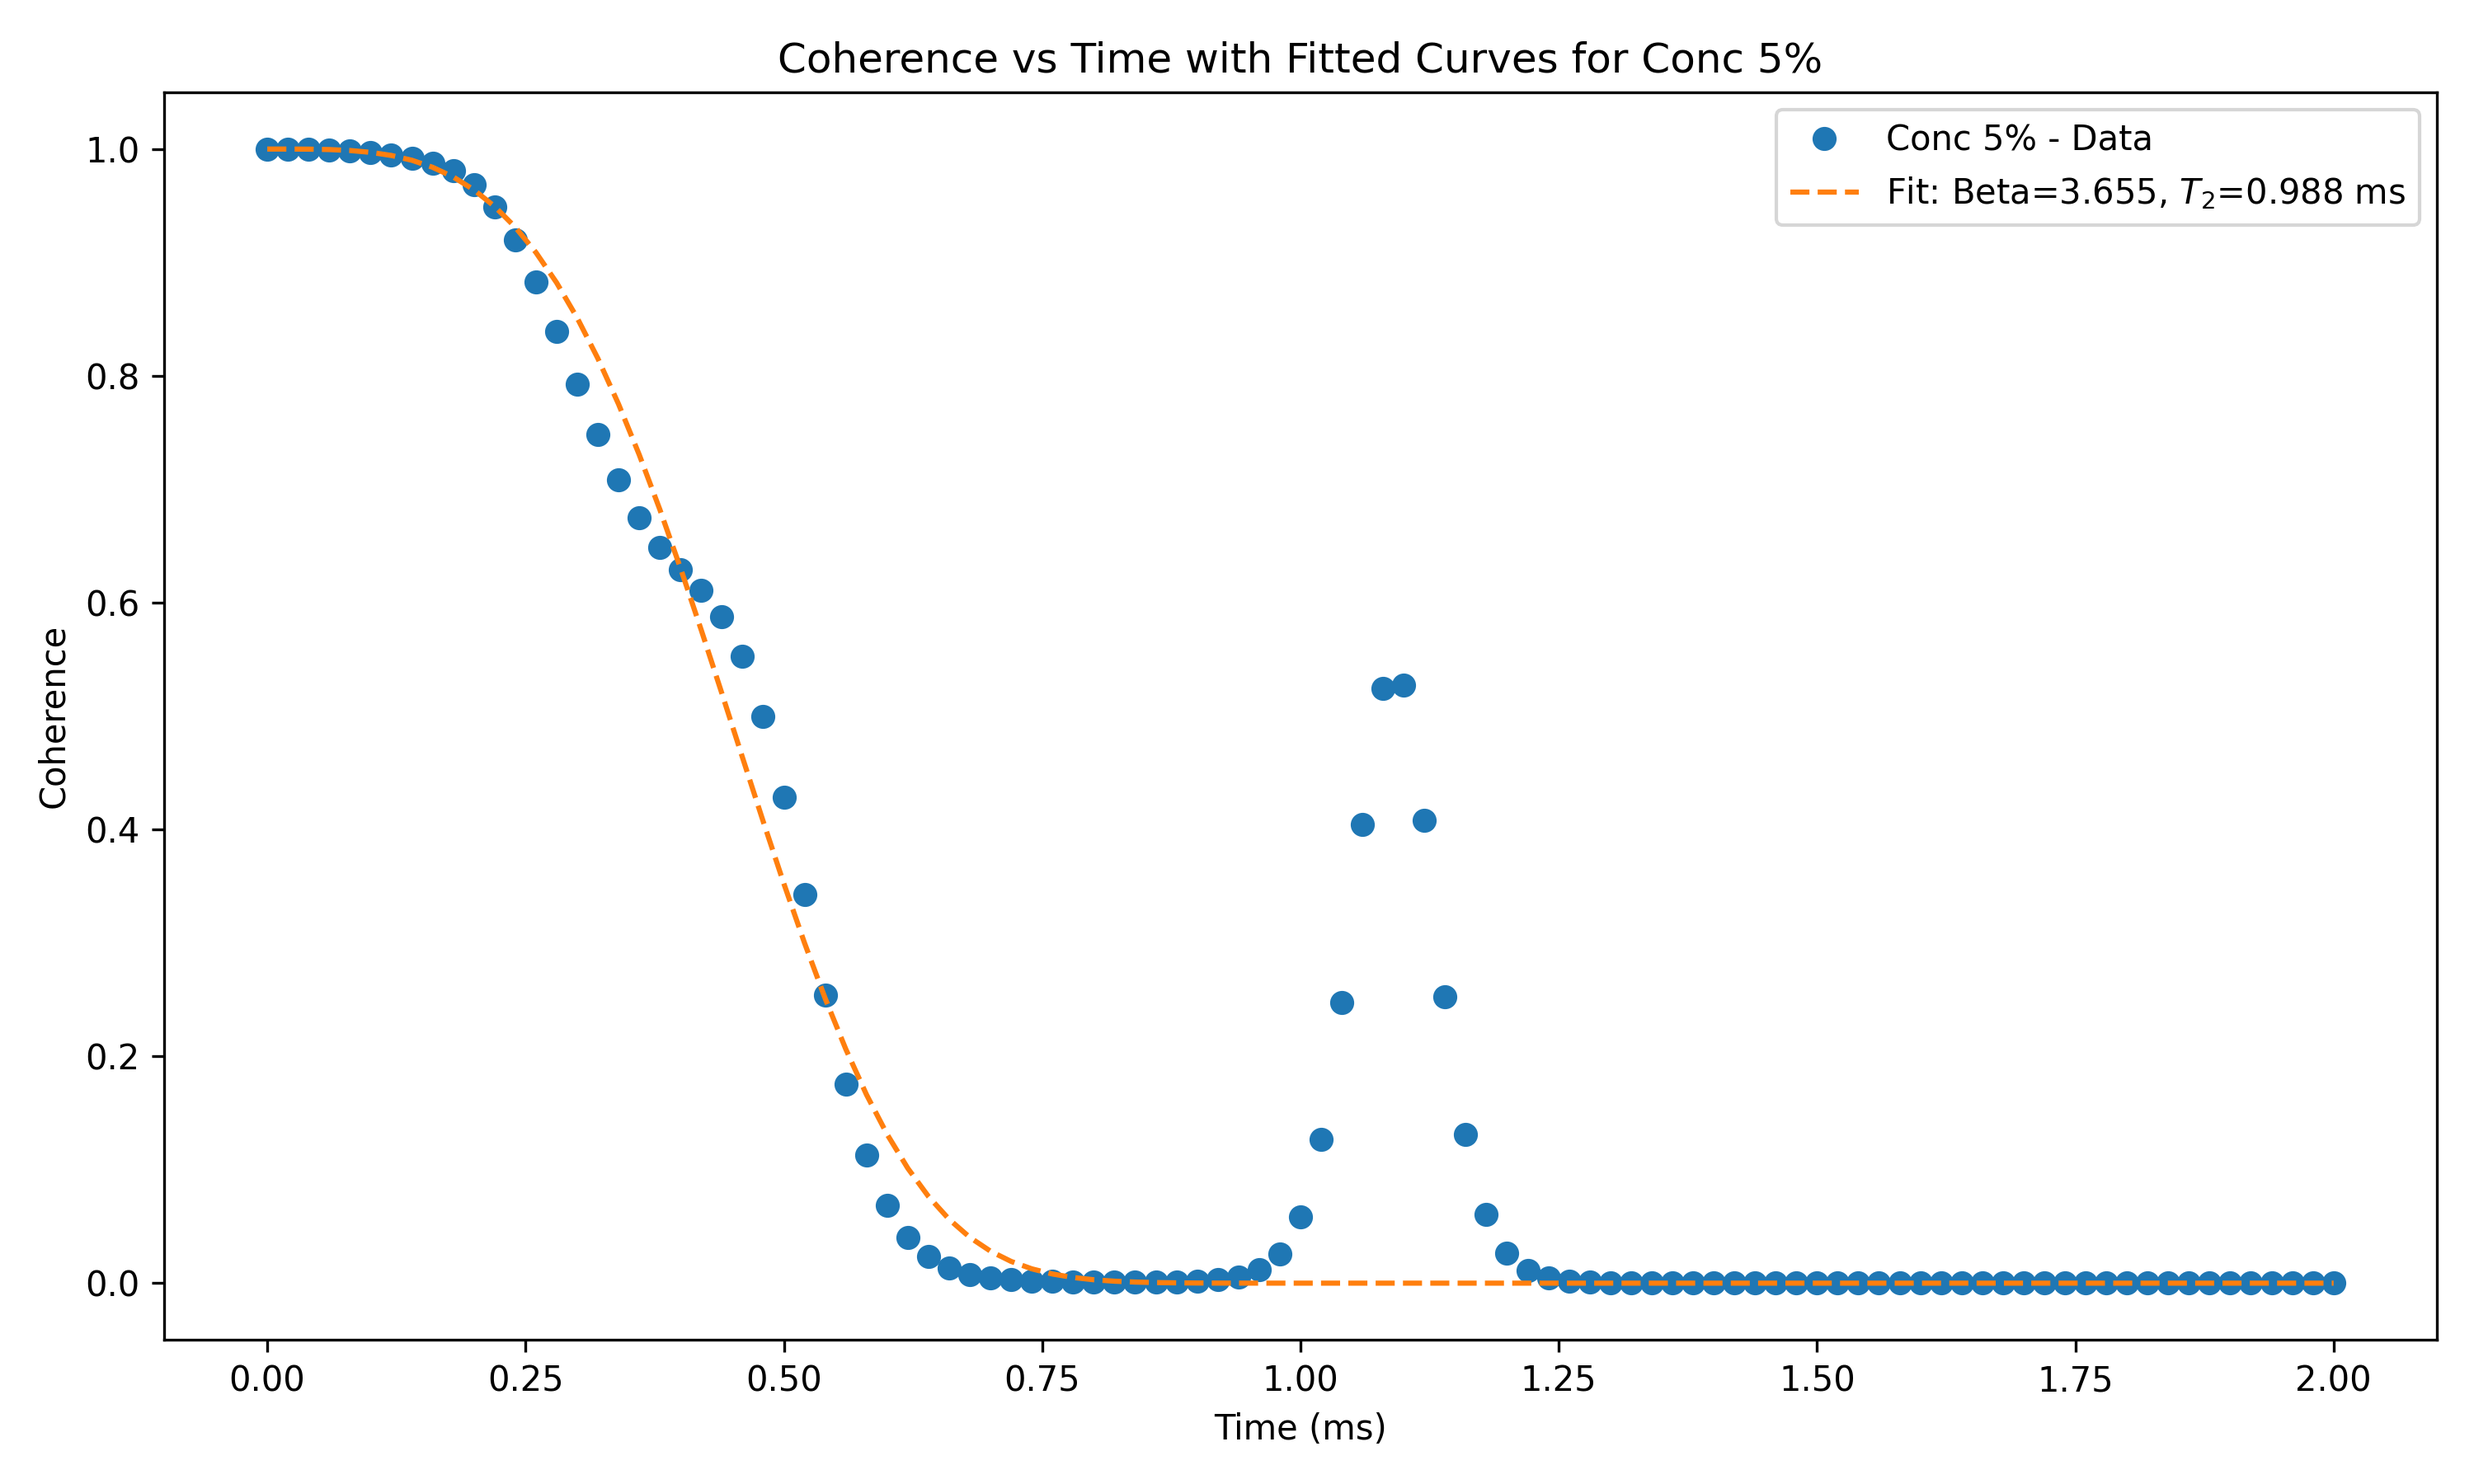
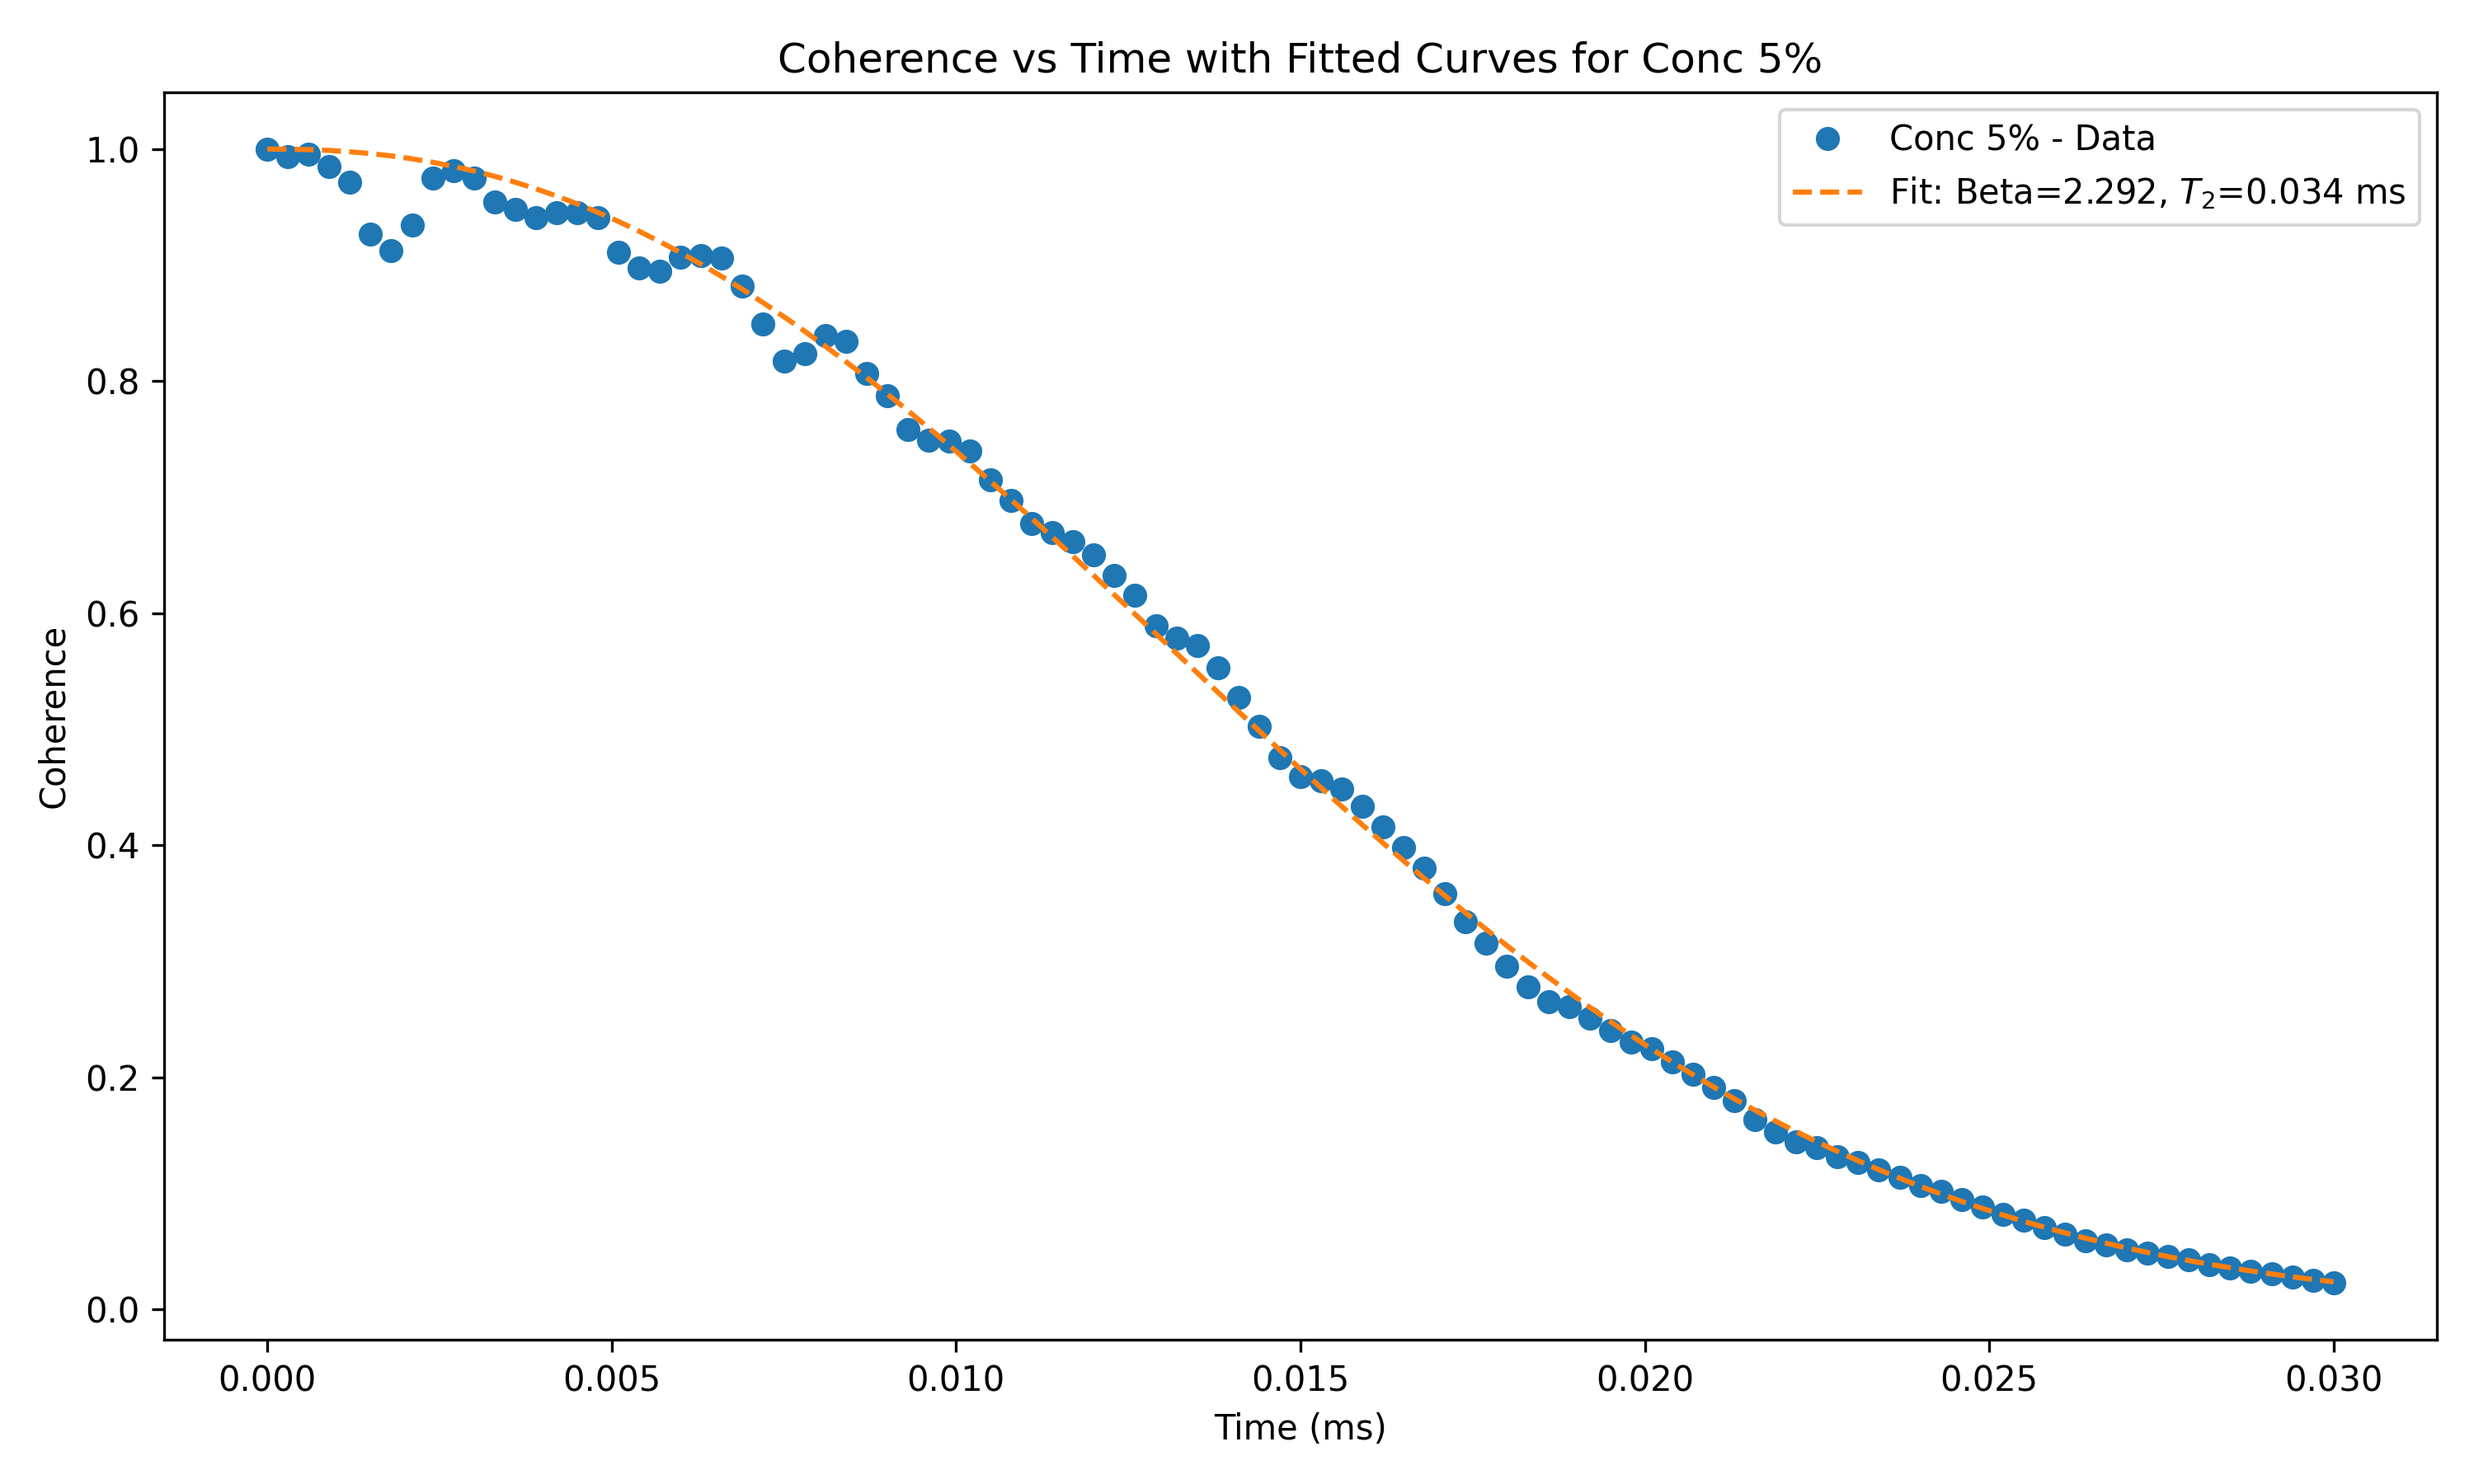
Promising T2 vs % combined bath E trans

diff --git a/VOTPP folder/VOTPP_T2_vs_percentages_plotter.py b/VOTPP folder/VOTPP_T2_vs_percentages_plotter.py
@@ -9,13 +9,13 @@ import pandas as pd
 def coherence_time_func(time, beta, T2):
     return np.exp(-(((2*time)/T2)**beta))
 
-concentration_list = [0.02, 0.05, 0.1, 0.3]
+concentration_list = [0.02, 0.05, 0.1, 0.3,0.5]
 T2_values = []
 path = "VOTPP folder/Results/Pickle files/"
 
 for conc in concentration_list:
     conc_percentage = conc * 100
-    with open(f'{path}results_combined_conc_{conc}.pkl', 'rb') as f:
+    with open(f'{path}results_combined_E_trans_conc_{conc}.pkl', 'rb') as f:
         data = pickle.load(f)
 
     for key, df in data.items():
@@ -52,14 +52,14 @@ for conc in concentration_list:
         plt.savefig(output_filename, dpi=300)
         plt.show()
 
-plt.xlabel('Time (ms)')
-plt.ylabel('Coherence')
-plt.title('Coherence vs Time with Fitted Curves')
-# plt.xlim(-0.01, 0.51)
-plt.legend()
-plt.tight_layout()
-plt.savefig(f'{path}coherence_for_different_concentrations_(E_trans).png', dpi=300)
-plt.show()
+# plt.xlabel('Time (ms)')
+# plt.ylabel('Coherence')
+# plt.title('Coherence vs Time with Fitted Curves')
+# # plt.xlim(-0.01, 0.51)
+# plt.legend()
+# plt.tight_layout()
+# plt.savefig(f'{path}coherence_for_different_concentrations_(E_trans).png', dpi=300)
+# plt.show()
 
 # Plot T2 vs concentration in a separate plot
 plt.figure(figsize=(10, 6))

diff --git a/VOTPP folder/VOTPP_T2_vs_percentages_simulator.py b/VOTPP folder/VOTPP_T2_vs_percentages_simulator.py
@@ -131,7 +131,7 @@ nbstates_list = [128,]
 
 default_calc_parameters = {
     # 'timespace': np.linspace(0, 7e-2, 201),
-    'timespace': np.linspace(0, 2, 101), # 7e-2
+    'timespace': np.linspace(0, 0.1, 101), # 7e-2
     # 'timespace': np.linspace(0, , 2), # 7e-2
     'method': 'cce',
     'pulses': [pc.Pulse('x', np.pi)], # Paper defines a Hahn-echo pulse sequence with 2pi/3 pulses?
@@ -210,8 +210,8 @@ for conc in concentration_list:
         changing_variable='magnetic_field',
         variable_values=magnetic_field_list,
         num_spins=2,  # spin_type='electron',
-        alpha=4,
-        beta=5,
+        alpha=0,
+        beta=8,
         bath_parameters=default_bath_parameters, simulator_parameters=default_simulator_parameters, calc_parameters=default_calc_parameters,
     )
 
@@ -222,7 +222,7 @@ for conc in concentration_list:
 
 
     # Save results to pickle file
-    with open(f'{path}results_combined_conc_{conc}.pkl', 'wb') as f:
+    with open(f'{path}results_combined_E_trans_conc_{conc}.pkl', 'wb') as f:
         pickle.dump(results, f)
 
 #####################################################################
